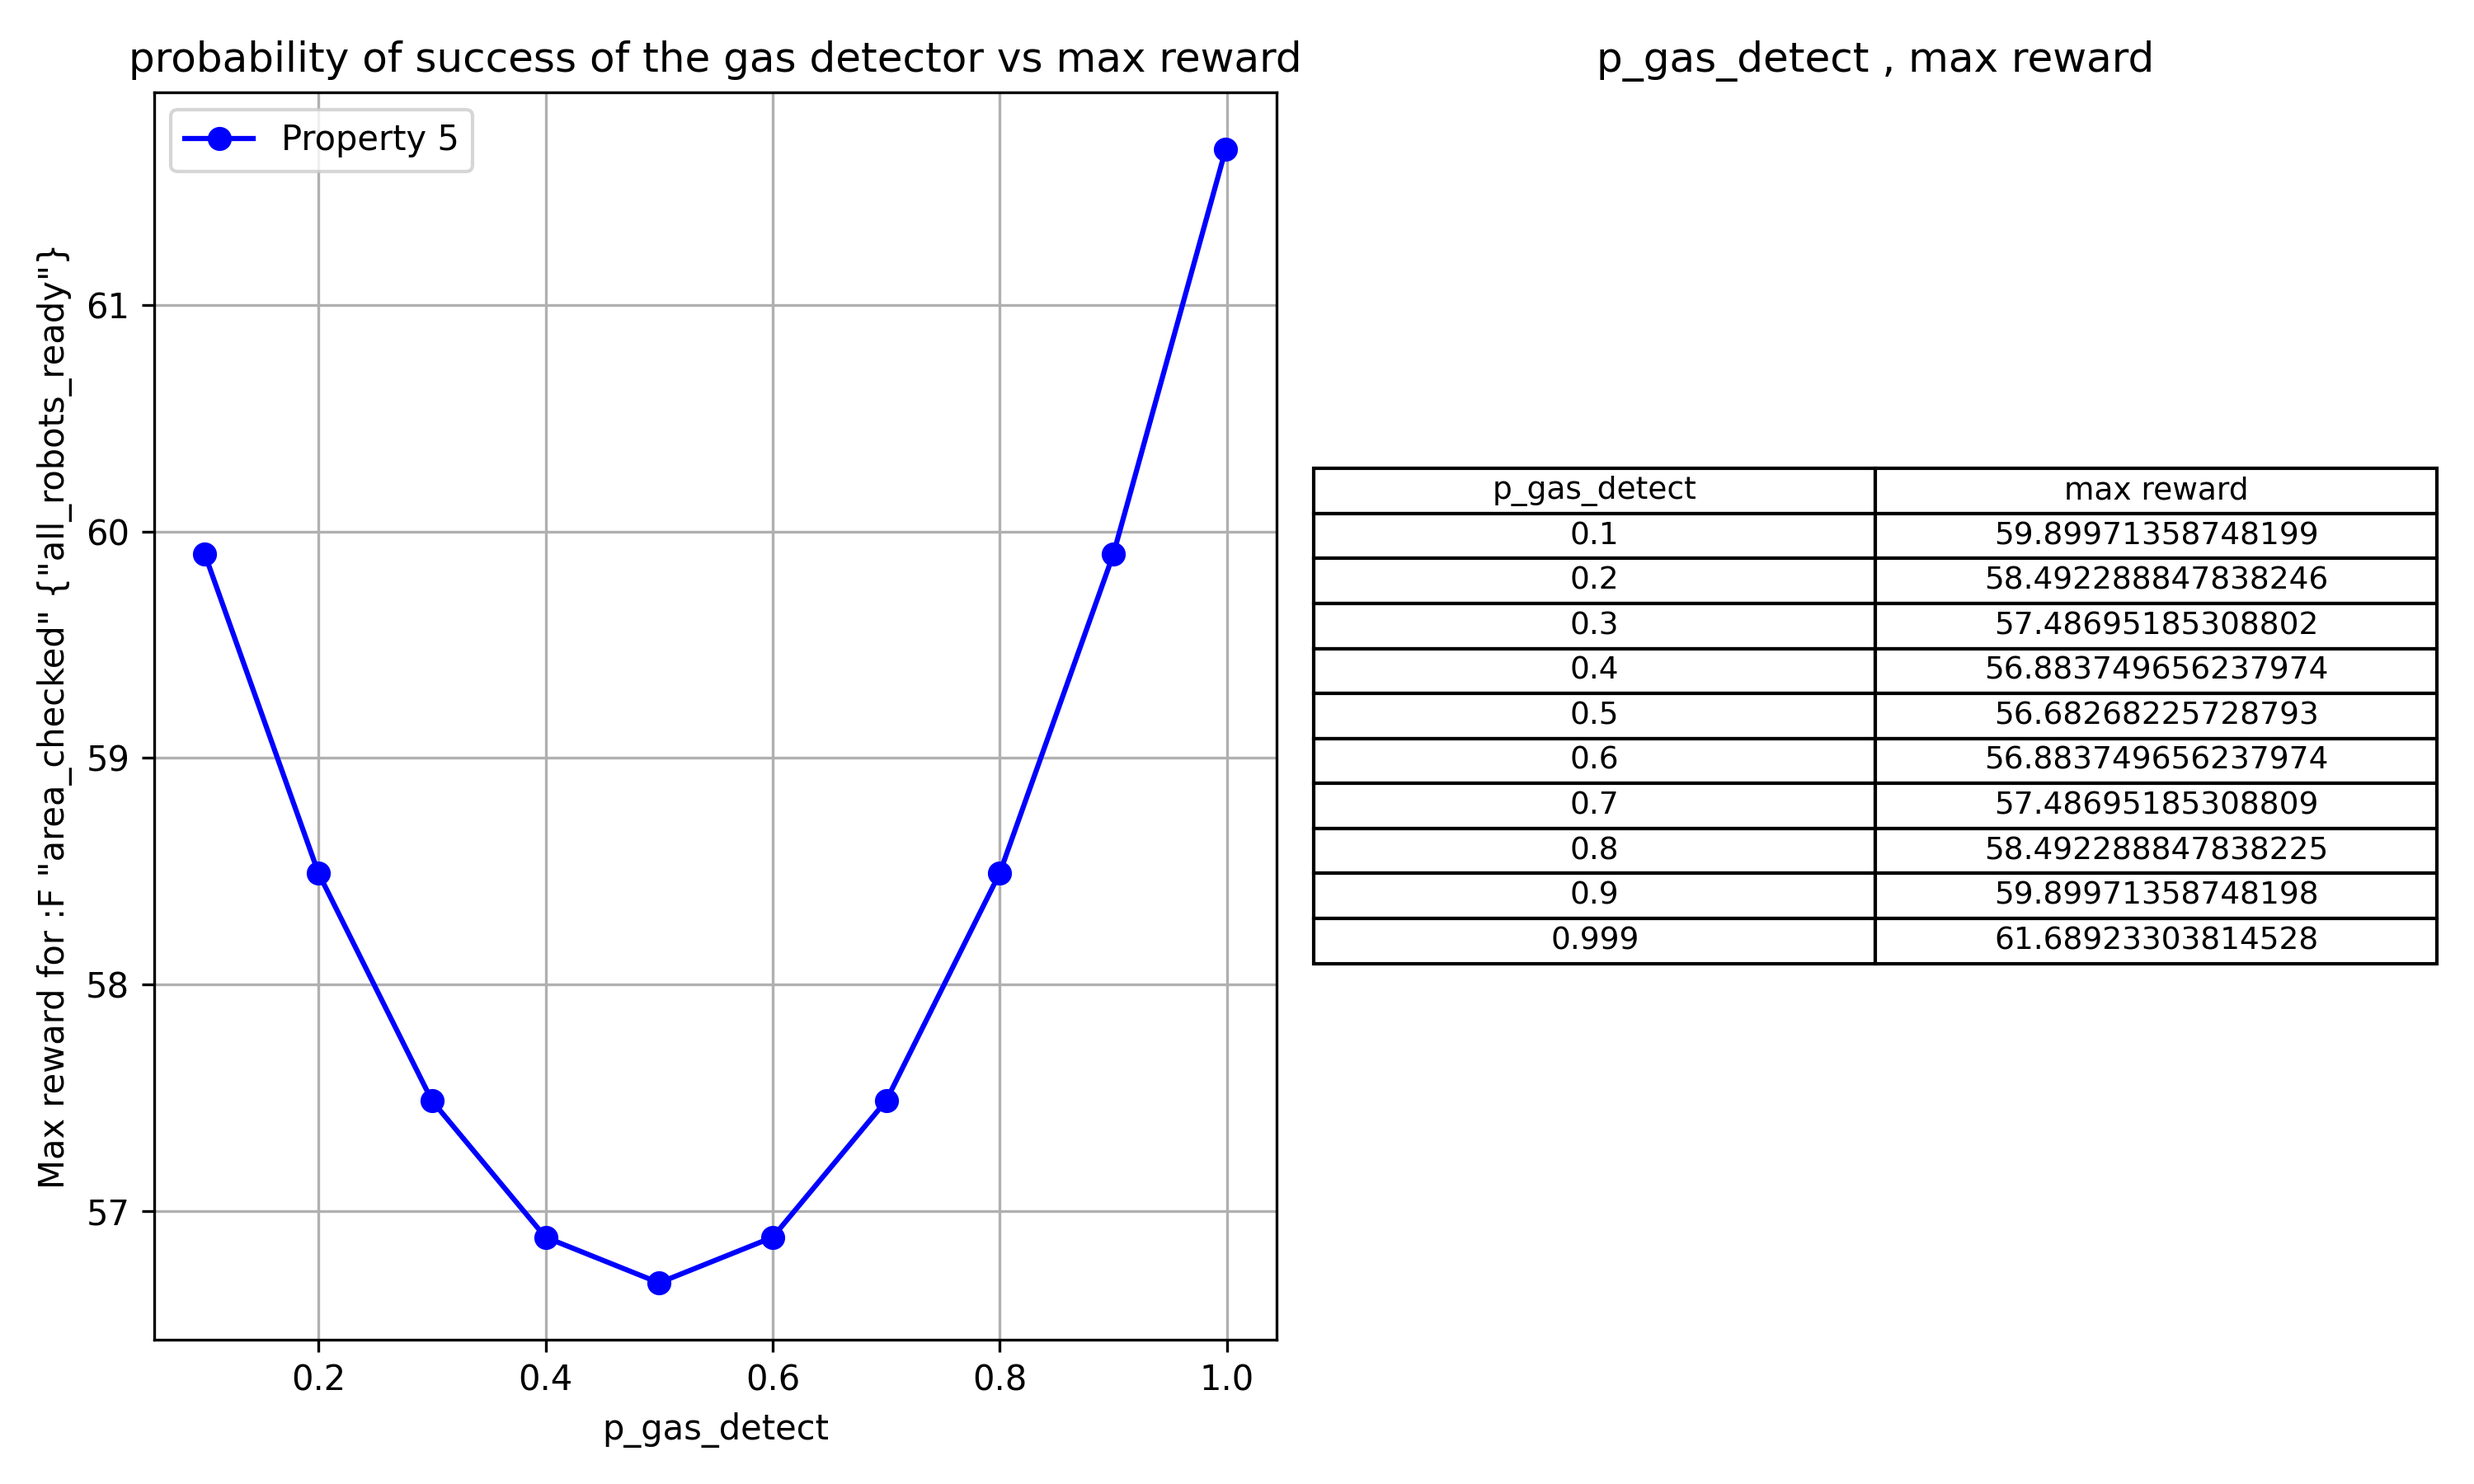
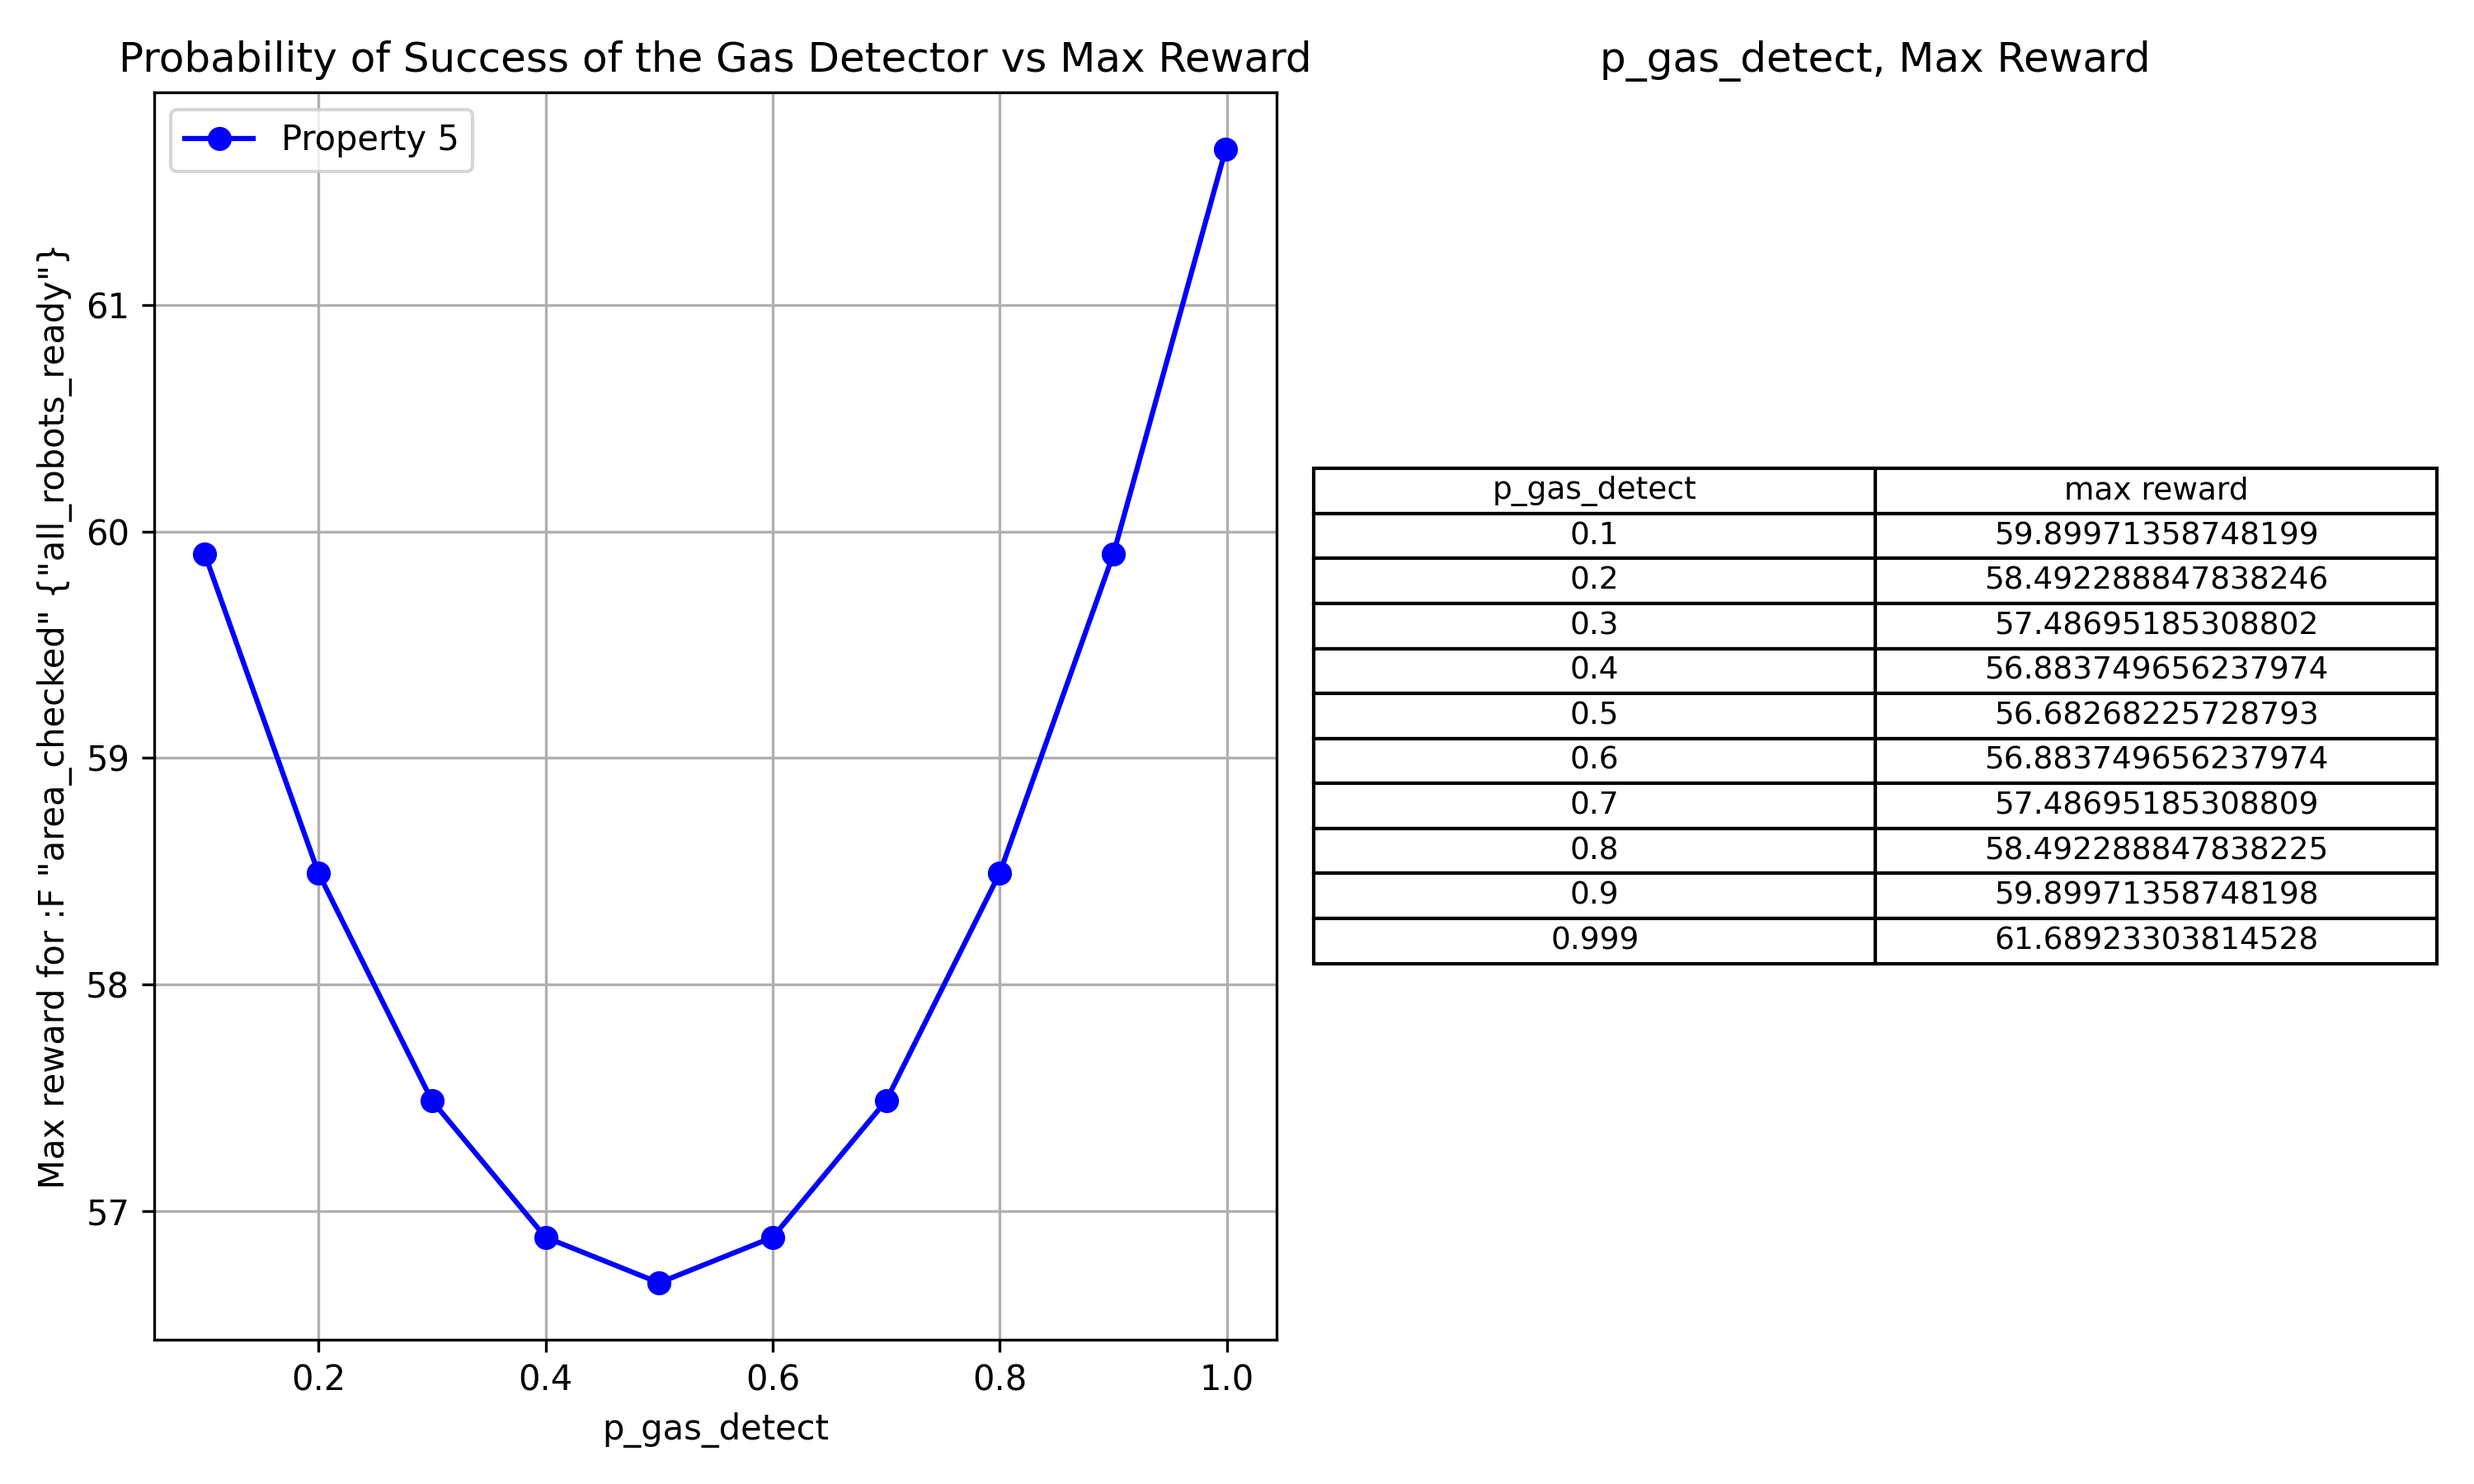
fix: change code3 to have better structure

Changed region(s): [[0.031, 0.0311, 0.527, 0.0622], [0.651, 0.0311, 0.868, 0.0622]]

diff --git a/codes/code3.py b/codes/code3.py
@@ -4,91 +4,105 @@ import matplotlib.pyplot as plt
 
 model_file = r"C:\Aterm9\Karshensi_Project\all\first_model.prism"
 properties_file = r"C:\Aterm9\Karshensi_Project\all\properties.props"
-
-
 cost_file_path = r"C:\Aterm9\Karshensi_Project\all\consts\consts3.txt"
 
 
-def parse_cost_line(line):
+
+def get_parameter(key_value):
+    """Parses a key-value string and returns a dictionary entry."""
+    key, value = key_value
+    return key.strip(), float(value.strip()) if "." in value else int(value.strip())
+
+
+
+def check_values_line(line):
+    """Parses a line from the cost file into a dictionary."""
     param_dict = {}
     for param in line.strip().split(","):
         key_value = param.split("=")
         if len(key_value) == 2:
-            key, value = key_value
-            param_dict[key.strip()] = float(value.strip()) if "." in value else int(value.strip())  
+            key, value = get_parameter(key_value)
+            param_dict[key] = value
     return param_dict
 
 
-def run_prism_with_cost_group(cost_group, counterGroup, result_data):
 
+def extract_results_from_output(output, p_explore_success, result_data, counter_group):
+    """Extracts and processes results from PRISM's output."""
+    property_number = 1
+    for line in output.splitlines():
+        if "Result" in line:
+            print(f"Result for cost group {counter_group}, property {property_number}: {line}")
+            process_property_result(line, property_number, p_explore_success, result_data)
+            property_number += 1
+
+
+
+def process_property_result(line, property_number, p_explore_success, result_data):
+    """Processes a single property result and updates the result_data."""
+    if property_number == 5:
+        property_5 = float(line.split(":")[1].strip())
+        result_data['group'].append(p_explore_success)
+        result_data['property_5'].append(property_5)
+    elif property_number == 7:
+        property_7 = float(line.split(":")[1].strip())
+        result_data['property_7'].append(property_7)
+
+
+
+def plot_results(result_data, output_file):
+    """Generates and saves a plot of the results with a table."""
+    plt.figure(figsize=(10, 6))
+
+    # Plot Property 5
+    plt.subplot(121)
+    plt.plot(result_data['group'], result_data['property_5'], marker='o', color='b', label='Property 5')
+    plt.xlabel('p_gas_detect')
+    plt.ylabel('Max reward for :F "area_checked" {"all_robots_ready"}')
+    plt.title('Probability of Success of the Gas Detector vs Max Reward')
+    plt.grid(True)
+    plt.legend()
+
+
+    # Table for Property 5
+    plt.subplot(122)
+    plt.axis('off')
+    columns = ["p_gas_detect", "max reward"]
+    data = list(zip(result_data['group'], result_data['property_5']))
+    plt.table(cellText=data, colLabels=columns, loc='center', cellLoc='center', fontsize=9)
+    plt.title("p_gas_detect, Max Reward")
+    plt.tight_layout()
+
+    plt.savefig(output_file, format='png', dpi=300)
+    plt.close()
+
+
+
+def prism_connect_and_run(cost_group, counter_group, result_data):
+    """Runs PRISM with the given cost group and processes the results."""
     param_str = ",".join([f"{key}={value}" for key, value in cost_group.items()])
-
     prism_command = [
-        r"cd", r"C:\Program Files\prism-4.8.1\bin", "&&", 
+        r"cd", r"C:\Program Files\prism-4.8.1\bin", "&&",
         r"prism.bat", model_file, properties_file, "-const", param_str
     ]
-
     try:
         result = subprocess.run(' '.join(prism_command), shell=True, capture_output=True, text=True, check=True)
-        
-        output = result.stdout
-        propertyNumber = 1
-        p_explore_success = cost_group["p_gas_detect"]
-        for line in output.splitlines():
-            if "Result" in line:
-                print(f"Result for cost group {counterGroup} , property { propertyNumber} : {line}")
-                if propertyNumber == 5:
-                    property_5 = float(line.split(":")[1].strip())
-                    result_data['group'].append(p_explore_success)
-                    result_data['property_5'].append(property_5)
-                elif propertyNumber == 7:
-                    property_7 = float(line.split(":")[1].strip())
-                    result_data['property_7'].append(property_7)
-         
-             
-                propertyNumber += 1
-    
+        extract_results_from_output(result.stdout, cost_group["p_gas_detect"], result_data, counter_group)
     except subprocess.CalledProcessError as e:
-        print(f"Error running PRISM with cost group {counterGroup}:\n", e.stderr)
-
-result_data = {
-    'group': [],
-    'property_5': [],
-    'property_7': [],
-    'property_8': []
-}
+        print(f"Error running PRISM with cost group {counter_group}:\n", e.stderr)
 
 
-counterGroup = 1
+
+# Main script
+result_data = {'group': [],'property_5': [], 'property_7': []}
+counter_group = 1
 with open(cost_file_path, 'r') as cost_file:
     for line in cost_file:
-        if line.strip():  
-            cost_group = parse_cost_line(line)
-            run_prism_with_cost_group(cost_group, counterGroup, result_data)
-        counterGroup += 1 
+        if line.strip():
+            cost_group =check_values_line(line)
+            prism_connect_and_run(cost_group, counter_group, result_data)
+        counter_group += 1
 
-
-plt.figure(figsize=(10, 6))
-
-# Plot Property 5
-plt.subplot(121)
-plt.plot(result_data['group'], result_data['property_5'], marker='o', color='b', label='Property 5')
-plt.xlabel('p_gas_detect')
-plt.ylabel('Max reward for :F "area_checked" {"all_robots_ready"}')
-plt.title('probability of success of the gas detector vs max reward')
-plt.grid(True)
-plt.legend()
-
-# Table for Property 5
-plt.subplot(122)
-plt.axis('off')
-columns = ["p_gas_detect", "max reward"]
-data = list(zip(result_data['group'], result_data['property_5']))
-plt.table(cellText=data, colLabels=columns, loc='center', cellLoc='center')
-plt.title("p_gas_detect , max reward")
-plt.tight_layout()
-
-output_file = "plots/plot_results3.png" 
-plt.savefig(output_file, format='png', dpi=300) 
-
-plt.close()
+# Plot results
+output_file = "plots/plot_results3.png"
+plot_results(result_data, output_file)
